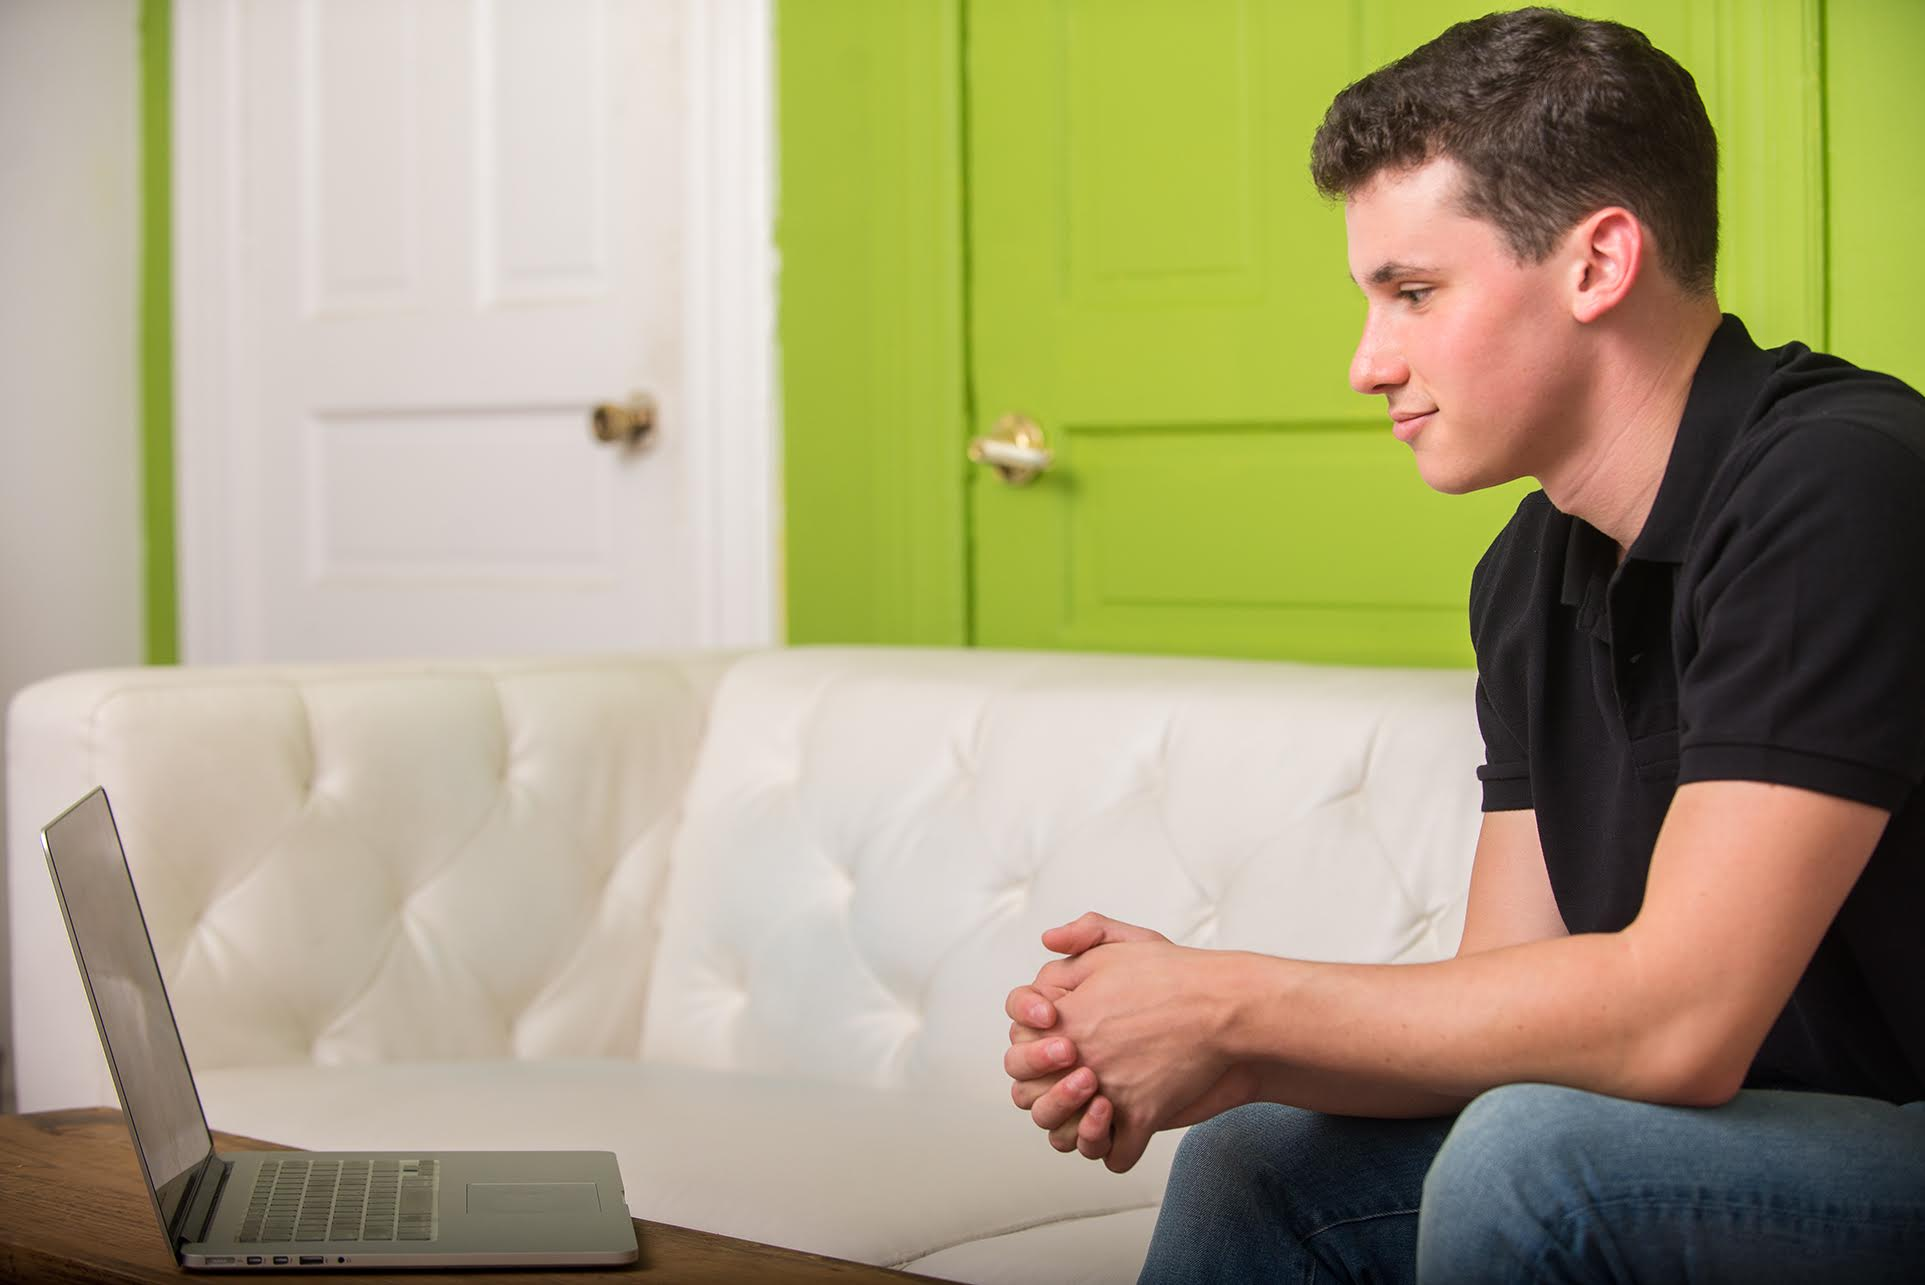
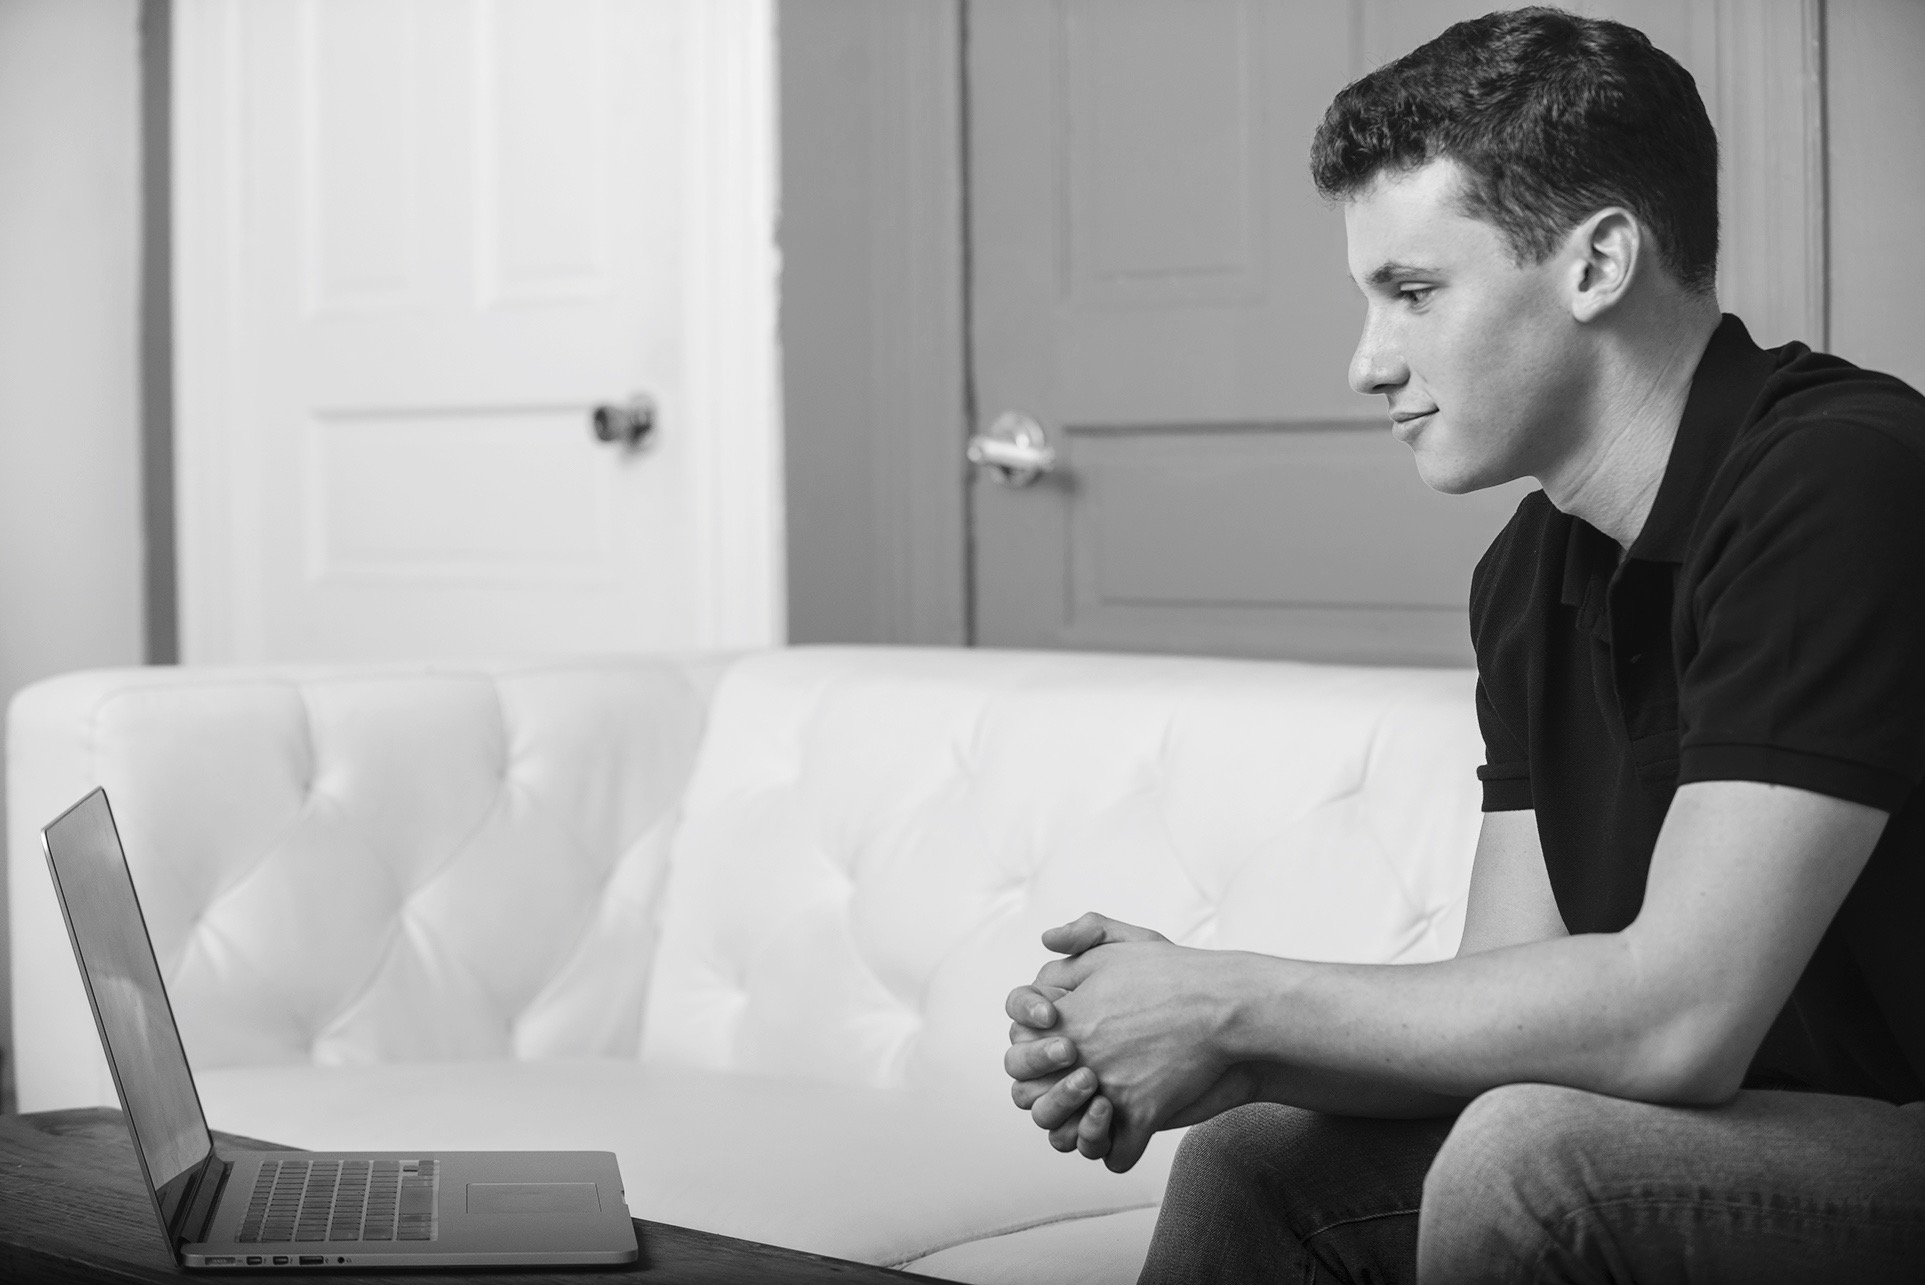
new

diff --git a/unit_8/style.css b/unit_8/style.css
@@ -80,7 +80,7 @@ nav a:hover {
 	background-size: cover;
 	padding-bottom: 133px;
 	color: black;
-	float: left;
+	float: right;
 	width: 50%;
 }
 
@@ -93,13 +93,12 @@ nav a:hover {
 	transform: translate(-50%, -50%);
 }
 
-#firstpicture {
+#firstimage {
 	float: left;
 	width: 50%;
 	overflow: hidden;
 	background-size: cover;
 	height: 100%;
-	-webkit-filter: grayscale(100%);
 }
 
 #meagain {

diff --git a/unit_8/index.html b/unit_8/index.html
@@ -40,7 +40,7 @@
 
 	<div id="aboutme" class="clearfix">
 
-		<img src="images/rice.jpg" id="firstpicture">
+		<img src="images/rice.jpg" id="firstimage">
 
 		<div id="firstcontent">
 			<p>IVF babe coneceived in NY. Born and raised in the burbs of D.C. I divide my time between laughing too loud and petting strangers' dogs. I take work very seriously. Not myself.
